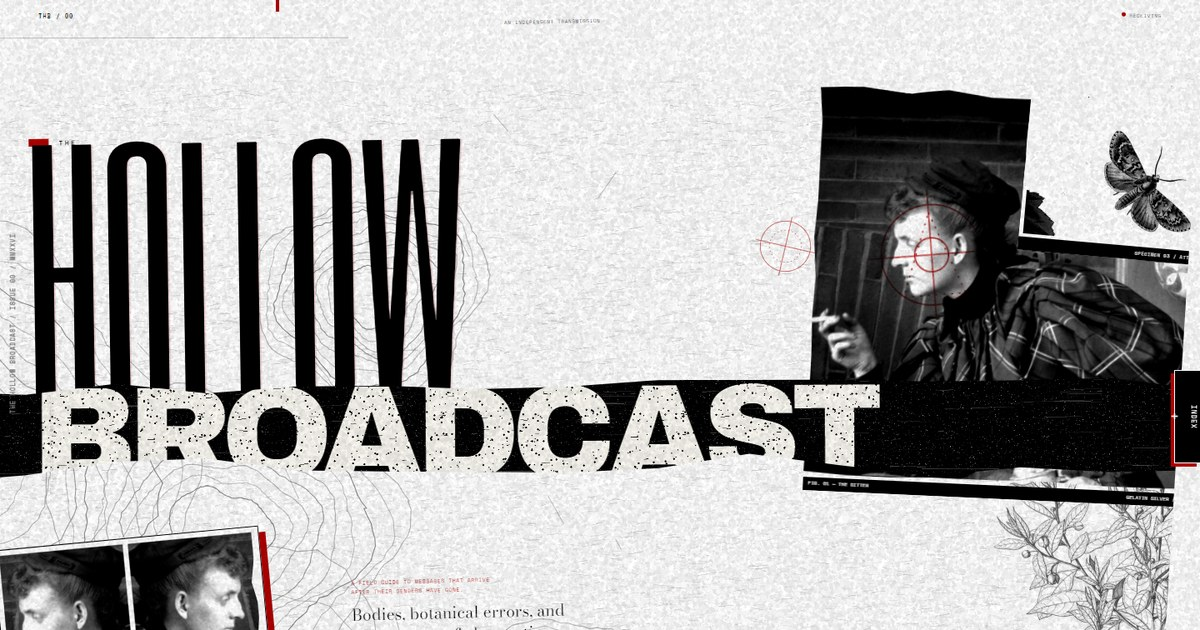
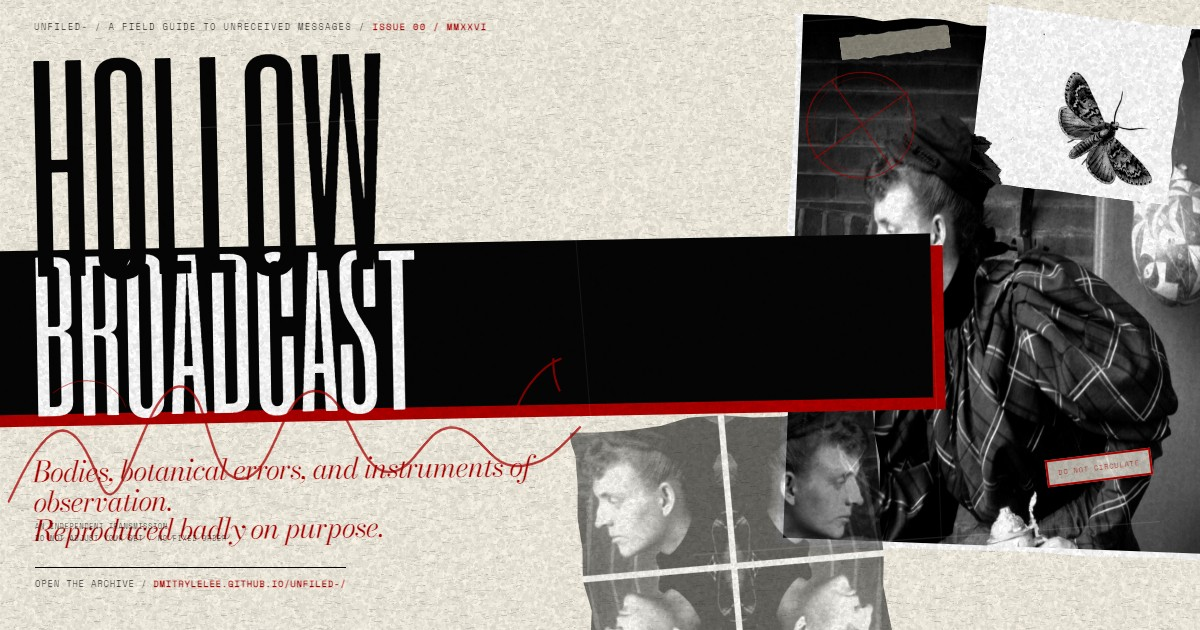
Add complete social cards and expanded preview gallery

diff --git a/the-hollow-broadcast/index.html b/the-hollow-broadcast/index.html
@@ -6,16 +6,25 @@
   <title>The Hollow Broadcast — A Field Guide to Unreceived Messages</title>
   <meta name="description" content="An experimental transmission in eight parts. Plates, an interactive cutting table, fragments, a sigil engine, frequencies, and other worlds. No cookies. No algorithm. No master.">
   <meta name="theme-color" content="#000000">
+  <meta name="author" content="UNFILED- / The Hollow Broadcast">
+  <meta name="application-name" content="The Hollow Broadcast">
   <meta property="og:type" content="website">
-  <meta property="og:title" content="The Hollow Broadcast">
-  <meta property="og:description" content="A field guide to messages that arrive after their senders have gone.">
+  <meta property="og:site_name" content="UNFILED-">
+  <meta property="og:locale" content="en_US">
+  <meta property="og:title" content="The Hollow Broadcast — A Field Guide to Unreceived Messages">
+  <meta property="og:description" content="A field guide to messages that arrive after their senders have gone. An independent transmission in eight parts.">
   <meta property="og:url" content="https://dmitrylelee.github.io/UNFILED-/">
   <meta property="og:image" content="https://dmitrylelee.github.io/UNFILED-/assets/og-cover.jpg">
+  <meta property="og:image:secure_url" content="https://dmitrylelee.github.io/UNFILED-/assets/og-cover.jpg">
+  <meta property="og:image:type" content="image/jpeg">
   <meta property="og:image:width" content="1200">
   <meta property="og:image:height" content="630">
-  <meta property="og:image:alt" content="The Hollow Broadcast — a black and white collaged publication cover.">
+  <meta property="og:image:alt" content="The Hollow Broadcast — a torn-paper and xerox cover with the title, portrait and moth.">
   <meta name="twitter:card" content="summary_large_image">
+  <meta name="twitter:title" content="The Hollow Broadcast — A Field Guide to Unreceived Messages">
+  <meta name="twitter:description" content="A field guide to messages that arrive after their senders have gone. An independent transmission in eight parts.">
   <meta name="twitter:image" content="https://dmitrylelee.github.io/UNFILED-/assets/og-cover.jpg">
+  <meta name="twitter:image:alt" content="The Hollow Broadcast — a torn-paper and xerox cover with the title, portrait and moth.">
   <link rel="canonical" href="https://dmitrylelee.github.io/UNFILED-/">
   <link rel="icon" href="assets/favicon.svg" type="image/svg+xml">
   <link rel="preload" href="assets/fonts/sixcaps-400.woff2" as="font" type="font/woff2" crossorigin>

diff --git a/README.md b/README.md
@@ -126,6 +126,33 @@ notes are in [`the-hollow-broadcast/README.md`](the-hollow-broadcast/README.md).
 
 ---
 
+## THE OBJECT IN FRAMES
+
+![The Hollow Broadcast — contact sheet of all nine sections](previews/contact-sheet.jpg)
+
+A contact sheet from the rendered publication. The whole object, cut into nine frames.
+
+Individual frames:
+[00 Entrance](previews/00-entrance.jpg) ·
+[01 Specimens](previews/01-specimens.jpg) ·
+[02 Cutting Table](previews/02-cutting-table.jpg) ·
+[03 Fragments](previews/03-fragments.jpg) ·
+[04 Apparatus](previews/04-apparatus.jpg) ·
+[05 Frequencies](previews/05-frequencies.jpg) ·
+[06 Transmissions](previews/06-transmissions.jpg) ·
+[07 Other Worlds](previews/07-other-worlds.jpg) ·
+[08 Colophon](previews/08-colophon.jpg) ·
+[Mobile](previews/mobile.jpg)
+
+### SOCIAL CARD / 1200 × 630
+
+![The Hollow Broadcast — social card](previews/social-card.jpg)
+
+This is the Open Graph / Twitter card used when the publication is shared. The
+image is also published as [`assets/og-cover.jpg`](the-hollow-broadcast/assets/og-cover.jpg).
+
+---
+
 ## THE MACHINE
 
 Static HTML, CSS and vanilla JavaScript. No build step. No framework. No backend.
